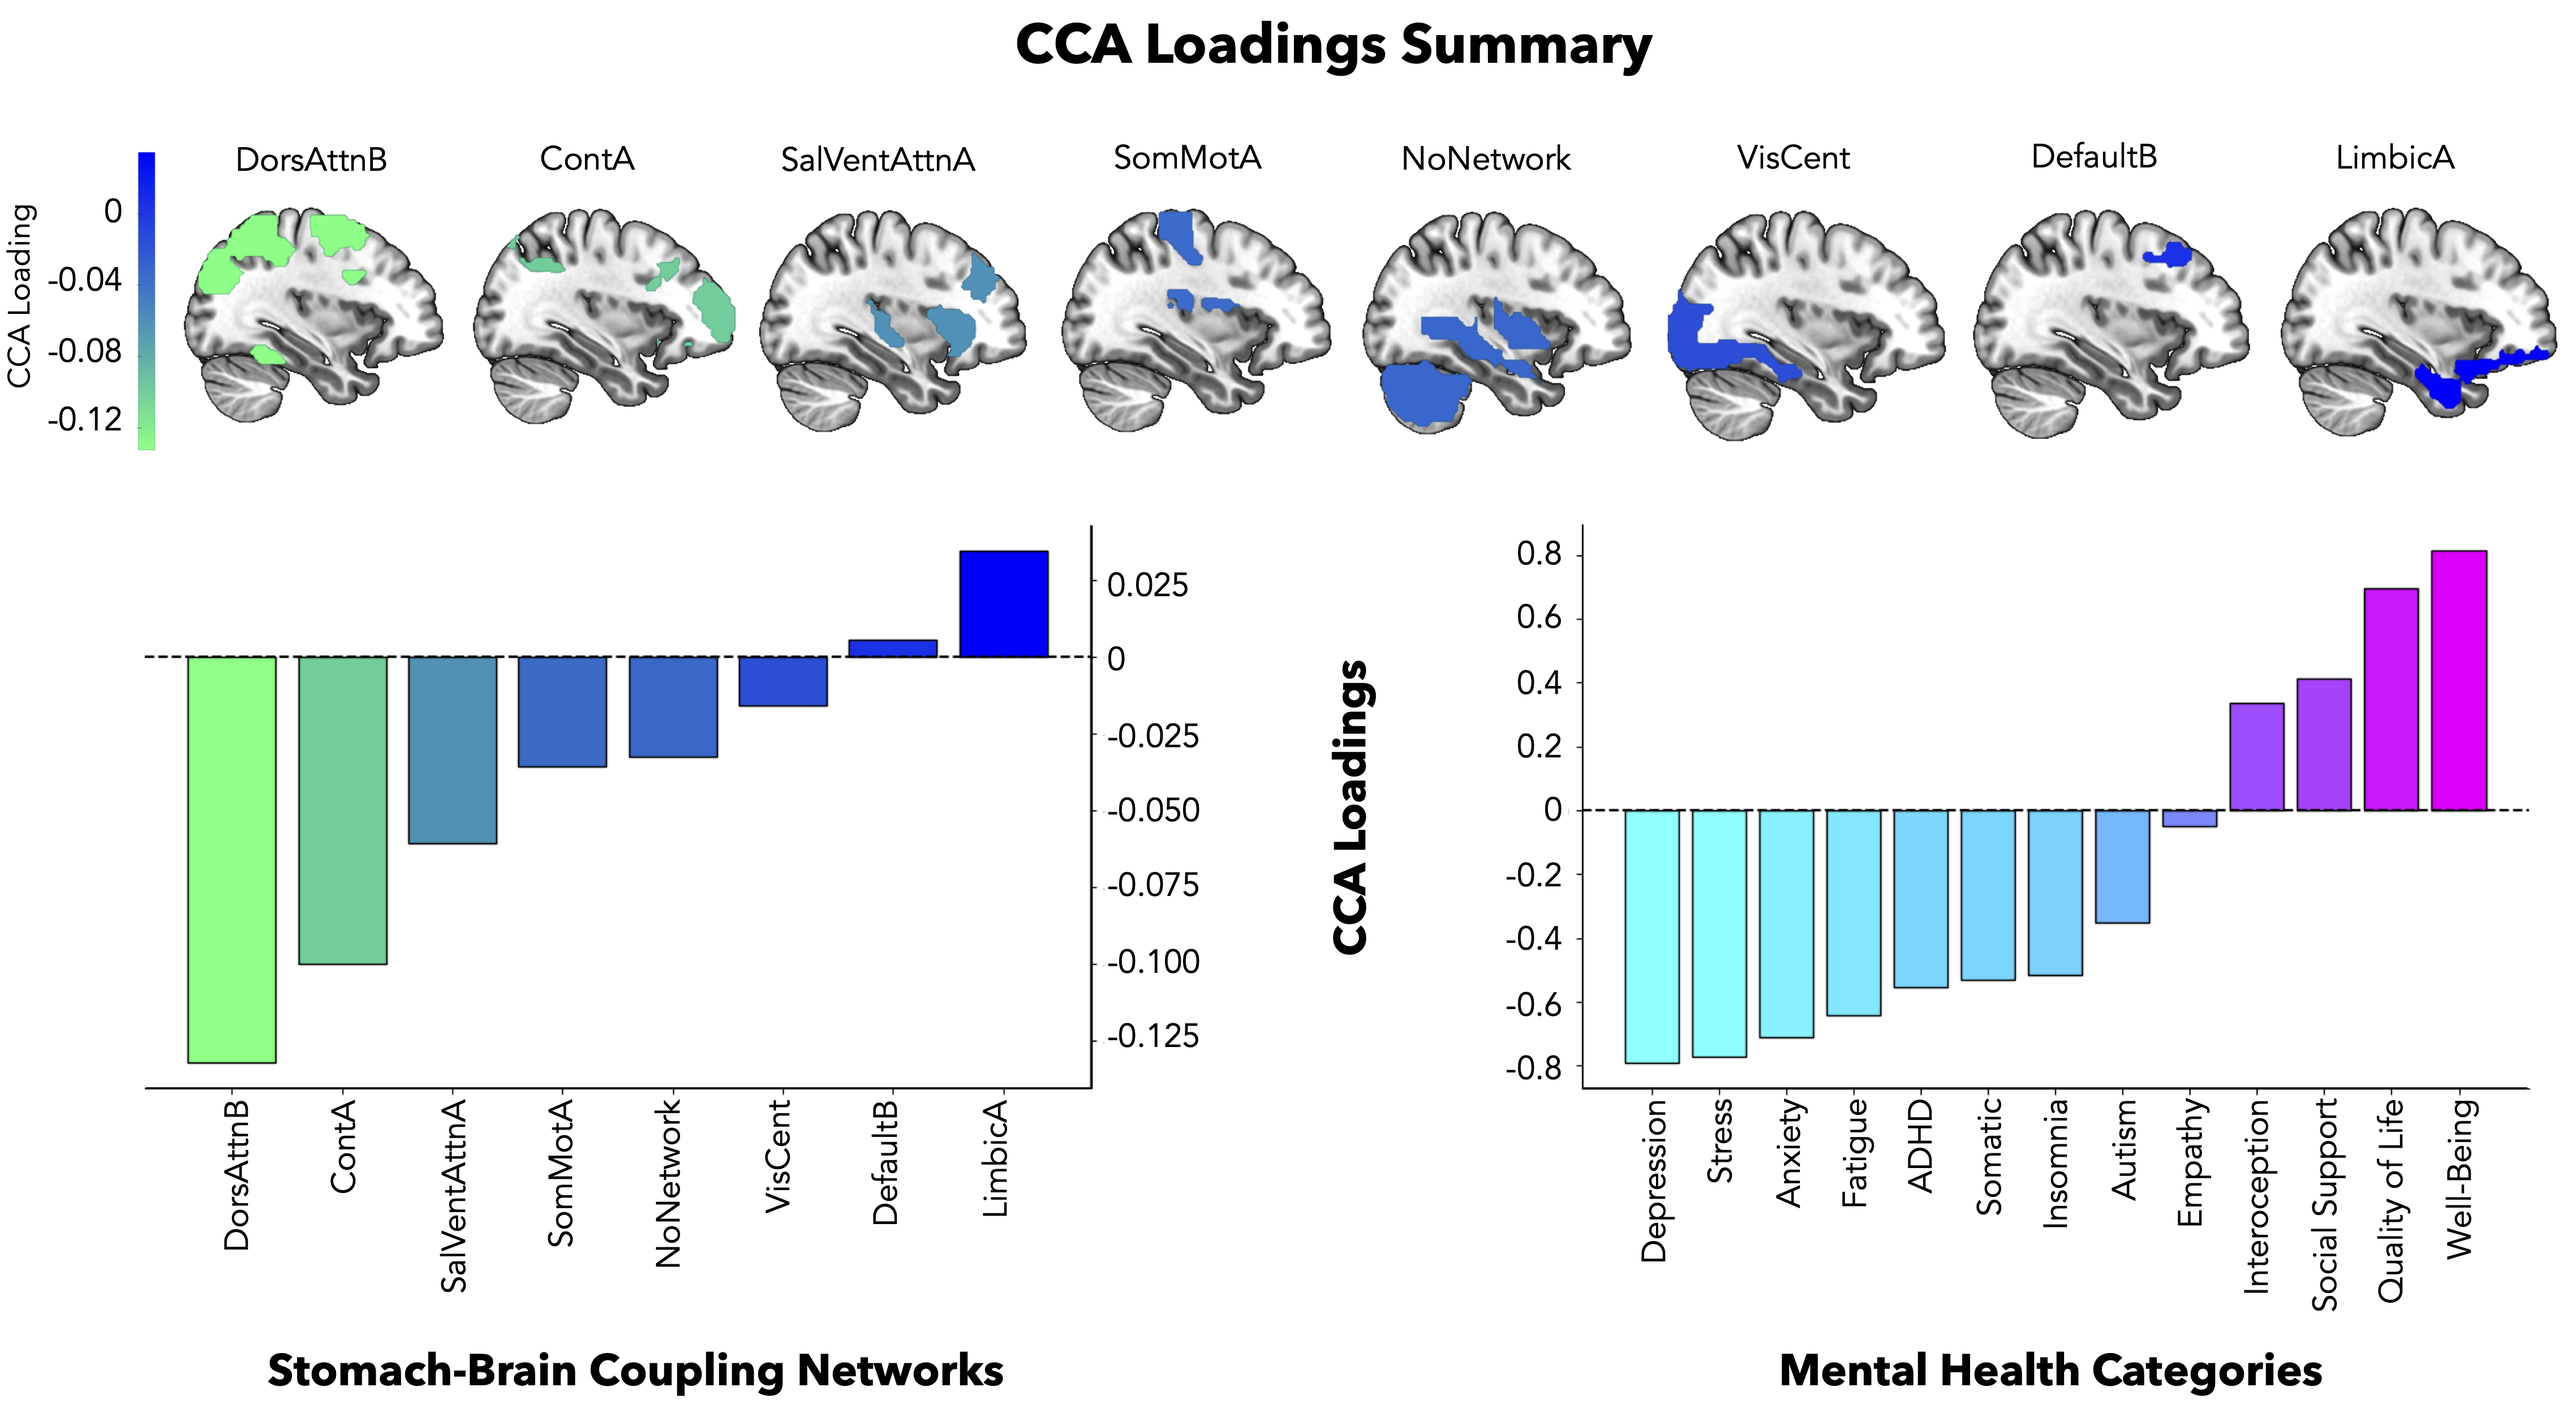
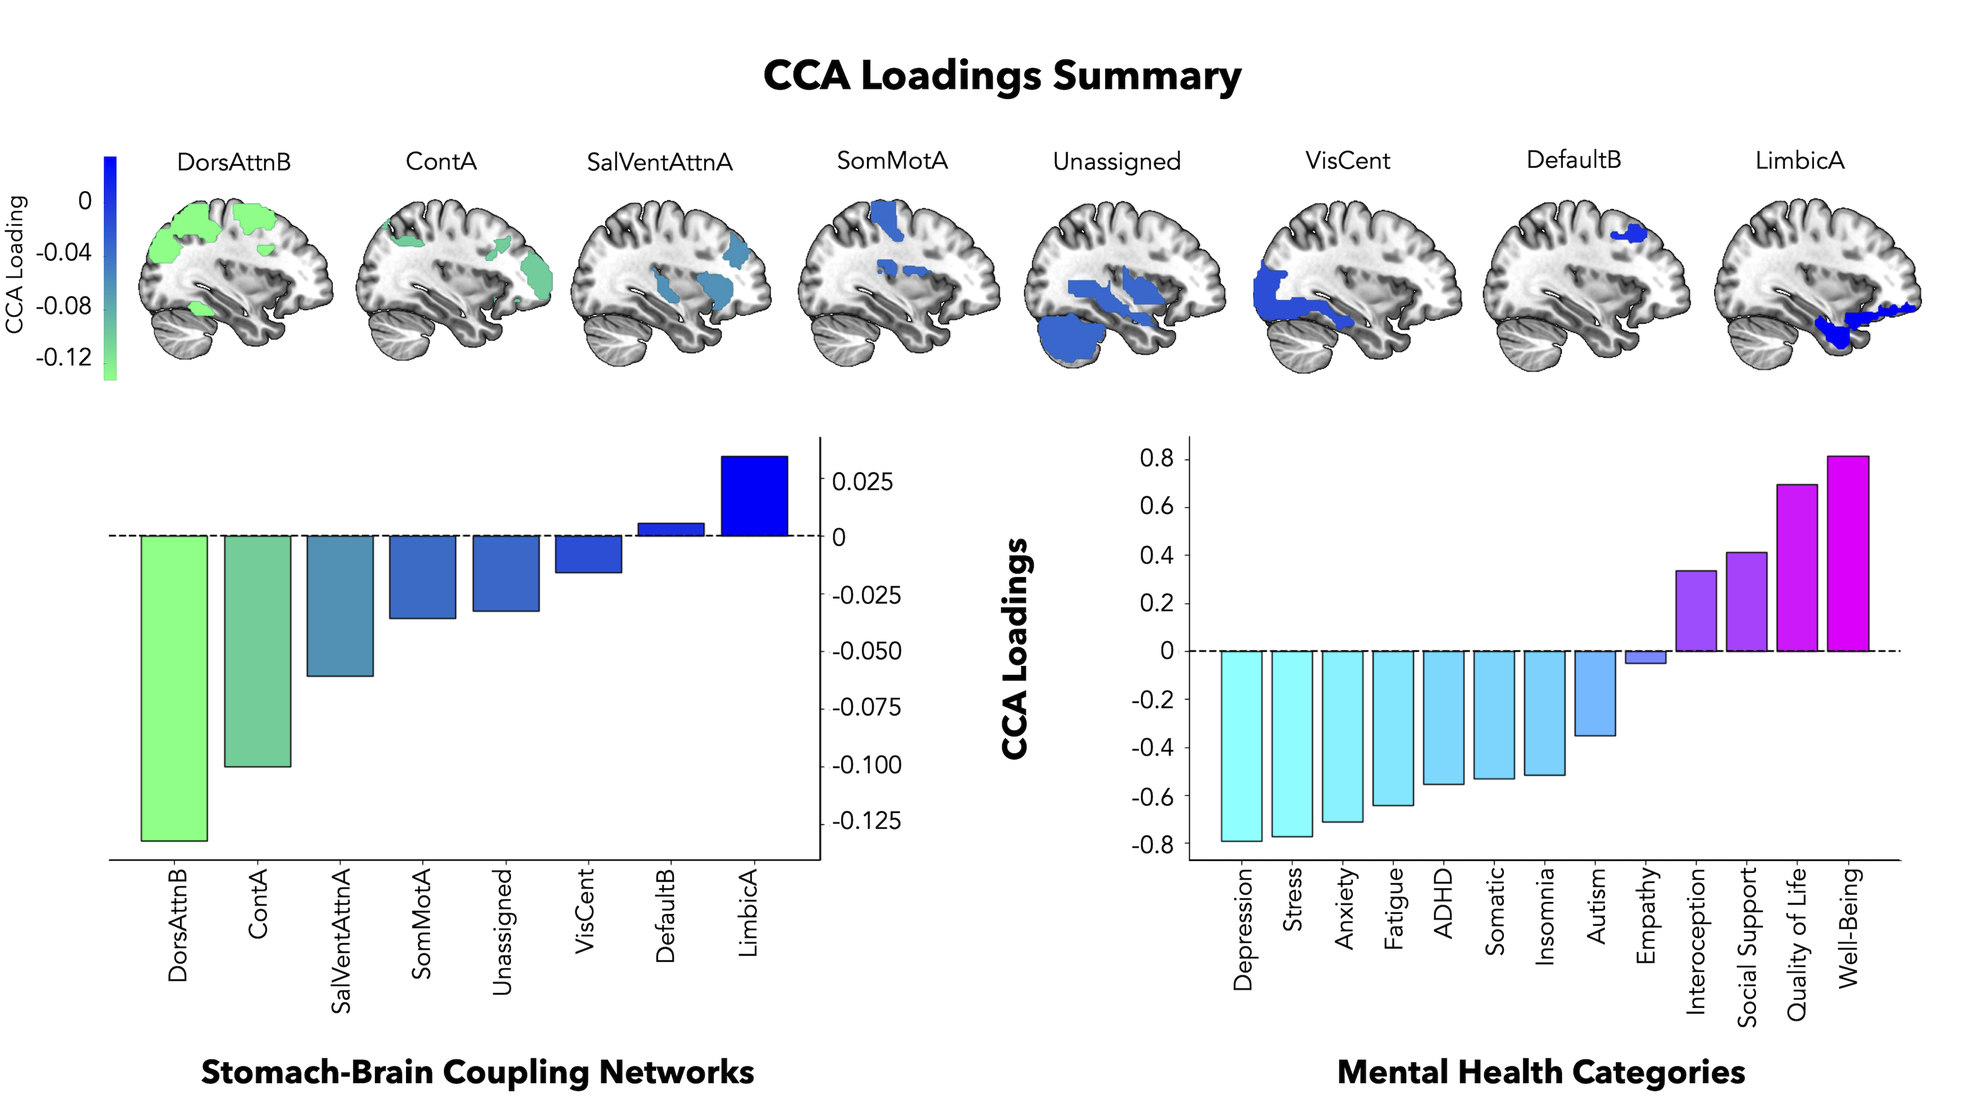
update readme to refer to manuscript & latest figs

diff --git a/README.md b/README.md
@@ -1,7 +1,7 @@
 # Increased Stomach-Brain Coupling Indexes a Dimensional Signature of Negative Mental Health 
 
 ### Abstract
-Visceral rhythms orchestrate the physiological states underlying human emotion. Chronic aberrations in these brain-body interactions are implicated in a broad spectrum of mental health disorders. However, the specific contributions of gastric-brain coupling to affective symptoms remain poorly understood. We investigated the relationship between this novel interoceptive axis and mental health in 243 participants, using a cross validated machine learning approach. We find that frontal parietal brain coupling to the gastric rhythm indexes a dimensional signature of mental health spanning anxiety, depression, stress, and well-being. Control analyses confirm the specificity of these interactions to the gastric-brain axis. Our study proposes coupling between the stomach and brain as a factor in mental health and offers potential new targets for interventions remediating aberrant brain-body coupling.
+Visceral rhythms orchestrate the physiological states underlying human emotion. Chronic aberrations in these brain–body interactions are implicated in a broad spectrum of mental health disorders. However, the relationship between gastric–brain coupling and affective symptoms remains poorly understood. Here we investigated the relationship  between this novel interoceptive axis and mental health in 243 participants, using a cross-validated machine learning approach. We find that  increased frontoparietal brain coupling to the gastric rhythm indexes a dimensional signature of poorer mental health, spanning anxiety, depression, stress and well-being. Control analyses confirm the specificity  of these interactions to the gastric–brain axis. Our study proposes  coupling between the stomach and brain as a factor in mental health  and offers potential new targets for interventions remediating aberrant brain–body coupling.
 
 ## Summary of Repository
 
@@ -11,12 +11,13 @@ This repository contains:
 - results (details of results from CCA analysis)
 - scripts (ReadMe.md in this folder details order of scripts to run)
 
-## Preprint:
+## Paper & Preprint:
 
+Lint to [NatureMentalHealth] (https://www.nature.com/articles/s44220-025-00468-6)
 Link to [preprint](https://www.biorxiv.org/content/10.1101/2024.06.05.597517v3)
 
 Cite as:
-Banellis, L., Rebollo, I., Nikolova, N., & Allen, M. (2024). Increased stomach-brain coupling indexes a dimensional signature of negative mental health symptoms. bioRxiv, 2024-06.
+Banellis, L., Rebollo, I., Nikolova, N., & Allen, M. (2025). Stomach–brain coupling indexes a dimensional signature of mental health. Nature Mental Health, 1-10.
 
 ## Figures
 
@@ -25,16 +26,17 @@ Banellis, L., Rebollo, I., Nikolova, N., & Allen, M. (2024). Increased stomach-b
 | ![Mental Health Stomach-Brain Coupling CCA: ](figures/final_figs/Fig1/PsychiatricStomachBrain_CCA.png)  |
 |:--:| 
 | Figure 1: Canonical Correlation Analysis of stomach-brain coupling and mental health. |
->Figure 1 synthesises the process and outcomes of correlating stomach-brain phase coupling with mental health, as quantified by 37 variables from 16 validated surveys. The top left quadrant presents these variables organised into their respective mental health categories (categorised for visualisation only, the CCA incorporated 37 individual scores), and their distribution is visualised as histograms on the bottom left, reflecting the range of participant mental health profiles. Electrogastrography (EGG) data depicted on the top right demonstrates the extraction of gastric cycle frequency from raw EGG signals, power spectra, and their phase information, essential for identifying stomach-brain coupling. The middle right figure illustrates coupled versus uncoupled states in stomach-brain interaction, with the individual variability in coupling strength highlighted across three brain images from individual participants (plotted on a standard mni152 brain template using MRIcroGL: visualised MNI coordinates plotted: 28, -19, 26, thresholded at 0.1, and small clusters <1000mm3 removed). For the CCA, stomach-brain phase-coupling is parcellated over 209 brain regions identified using the DiFuMo atlas, shown on the bottom right. The CCA model, depicted centrally, outputs a stomach-brain signature correlating with mental health individual profiles. This pattern is represented by canonical variates, which are weighted combinations of the multidimensional mental health and stomach-brain coupling data (illustrated as the central scatter plot). These weights, depicted as bar graphs, capture the most significant relationships between gastric-brain coupling and mental health profiles.
+>The process and outcomes of correlating stomach–brain phase coupling with mental health, as quantified by 37 variables from 16 validated surveys. The top left quadrant presents these variables organized into their respective mental health categories (categorized for visualization only, the CCA incorporated 37 individual scores), and their distribution is visualized as histograms on the bottom left, reflecting the range of participant mental health profiles. EGG data depicted on the top right demonstrates the extraction of gastric cycle frequency from raw EGG signals, power spectra and their phase information, essential for identifying stomach–brain coupling. The middle right figure illustrates coupled versus uncoupled states in stomach–brain interaction, with the individual variability in coupling strength highlighted across three brain images from individual participants (plotted on a standard mni152 brain template using MRIcroGL: visualized Montreal Neurological Institute (MNI) coordinates plotted: 28, −19, 26, thresholded at 0.1, and small clusters <1,000 mm3 removed). For the CCA, stomach–brain phase coupling is parcellated over 209 brain regions identified using the DiFuMo atlas, shown on the bottom right. The CCA model, depicted centrally, outputs a stomach–brain signature correlating with mental health individual profiles. This pattern is represented by canonical variates, which are weighted combinations of the multidimensional mental health and stomach–brain coupling data (illustrated as the central scatter plot). These weights, depicted as bar graphs, capture the most notable relationships between gastric–brain coupling and mental health profiles. 
 
 ### Figure 2:
 | ![Mental Health Signature of Stomach-Brain Coupling: ](figures/final_figs/Fig2/CCAmode.png) |
 |:--:| 
 | Figure 2: Mental health functional correlate of stomach-brain coupling. |
->Canonical Correlation Analysis results depicting the correlation between stomach-brain coupling and mental health dimensions. Left panel depicts the CCA loadings (structure correlations: Pearson's correlations between raw mental health and stomach-brain coupling variables and their respective canonical variate). Importantly, this represents the pattern of mental health data that is maximally correlated with the stomach-brain coupling canonical variate. High negative loadings are shown for anxiety, depression, stress, fatigue, ADHD, somatic symptoms, and insomnia, while high positive loadings are shown for well-being and quality of life. The middle panel shows the top 5 DiFuMo parcellated regions with the absolute highest stomach-brain coupling loadings (all negative), coloured according to their respective CCA loading: left superior angular gyrus, right posterior supramarginal gyrus, left inferior precentral sulcus, left posterior superior frontal gyrus and left posterior intraparietal sulcus (plotted on a standard mni152 brain template using MRIcroGL: MNI coordinates: -34, -3, 48). Right depicts the cross-validated CCA result denoting the maximally correlated psychological variate and brain-stomach coupling variate (in-sample r (118) = 0.886, out-sample r (77) = 0.323, p = 0.001).
+>CCA results depicting the correlation between stomach–brain coupling and mental health dimensions. This indicated diminished frontoparietal stomach–brain coupling with healthier mental health scores (that is, lower anxiety, depression and stress, and higher quality of life and well-being). Left: the CCA loadings (structure correlations: Pearson’s correlations between raw mental health and stomach–brain coupling variables and their respective canonical variate). Importantly, this represents the pattern of mental health data that is maximally correlated with the stomach–brain coupling canonical variate.  High negative loadings are shown for anxiety, depression, stress, fatigue, ADHD, somatic symptoms and insomnia, while high positive loadings are shown for  well-being and quality of life. Middle: the top five parcellated regions  (DiFuMo parcellation) with the absolute highest stomach–brain coupling loadings (all negative), colored according to their respective CCA loading: left superior angular gyrus, right posterior supramarginal gyrus, left inferior precentral sulcus, left posterior superior frontal gyrus and left posterior intraparietal sulcus (plotted on a standard mni152 brain template using MRIcroGL: Montreal Neurological Institute (MNI) coordinates: −34, −3, 48). Right: the cross-validated CCA result denoting the maximally correlated psychological variate and brain–stomach coupling variate (in-sample r(118) = 0.886, out-sample r(77) = 0.323, P = 0.001, two-tailed).
+
 
 ### Figure 3:
 | ![CCA Loadings Averaged Summary: ](figures/final_figs/Fig3/CCAloadings_Summary.png) |
 |:--:| 
 | Figure 3: CCA loadings averaged summary. |
->Canonical loadings (structure correlations: Pearson's correlations between raw inputted variables and respective canonical variate) from the mental health associated stomach-brain coupling CCA, summarised via averaging. Left shows the stomach-brain loadings averaged according to yeo-7 networks. Above demonstrates these network-averaged stomach-brain loadings projected onto a mask of the DiFuMo regions for each yeo-7 network (from left to right: DorsAttnB = Dorsal Attention B, ContA = Control A, SalVentAttnA = Salience Ventral Attention A, SomMotA = Somatomotor A, NoNetwork = no network found, VisCent = Visual A, DefaultB = Default Mode B, LimbicA = Limbic A)41, plotted on a standard mni152 brain template using MRIcroGL: MNI coordinates: -34, -3, 48. Right illustrates the psychological loadings averaged across mental health categories defined for visualisation in Figure 1. Note that there are prominent negative average stomach-brain loadings in the ‘dorsal attention B’ network and the ‘control A’ network, associated with reduced average depression, stress, anxiety, fatigue, and increased average well-being and quality of life (i.e. better mental health). The opposite pattern is also true: increased average stomach-brain loadings in attention and control networks is associated with worse mental health (increased depression, stress, anxiety, fatigue, and reduced well-being, and quality of life).
+>Canonical loadings (structure correlations: Pearson’s correlations between raw inputted variables and respective canonical variate) from the mental-health-associated stomach–brain coupling CCA, summarized via averaging. Note that there are prominent negative average stomach–brain loadings in the ‘dorsal attention B’ network and the ‘control A’ network, associated with reduced average depression, stress, anxiety and fatigue and increased average well-being and quality of life (that is, better mental health). The opposite pattern is also true: increased average stomach–brain loadings in attention and control networks is associated with worse mental health (increased depression, stress, anxiety and fatigue and reduced well-being and quality of life). Left: the stomach–brain loadings averaged according to  Yeo 7-networks. Top: these network-averaged stomach–brain loadings projected onto a mask of the DiFuMo atlas regions for each Yeo 7-network (from left to right: DorsAttnB, Dorsal Attention B; ContA, Control A; SalVentAttnA, Salience Ventral Attention A; SomMotA, Somatomotor A; Unassigned, no network found; VisCent, Visual A; DefaultB, Default Mode B; LimbicA, Limbic A)44, plotted on a standard mni152 brain template using MRIcroGL: Montreal Neurological Institute (MNI) coordinates: −34, −3, 48. Right: the psychological loadings averaged across mental health categories defined for visualization in Fig. 1.
